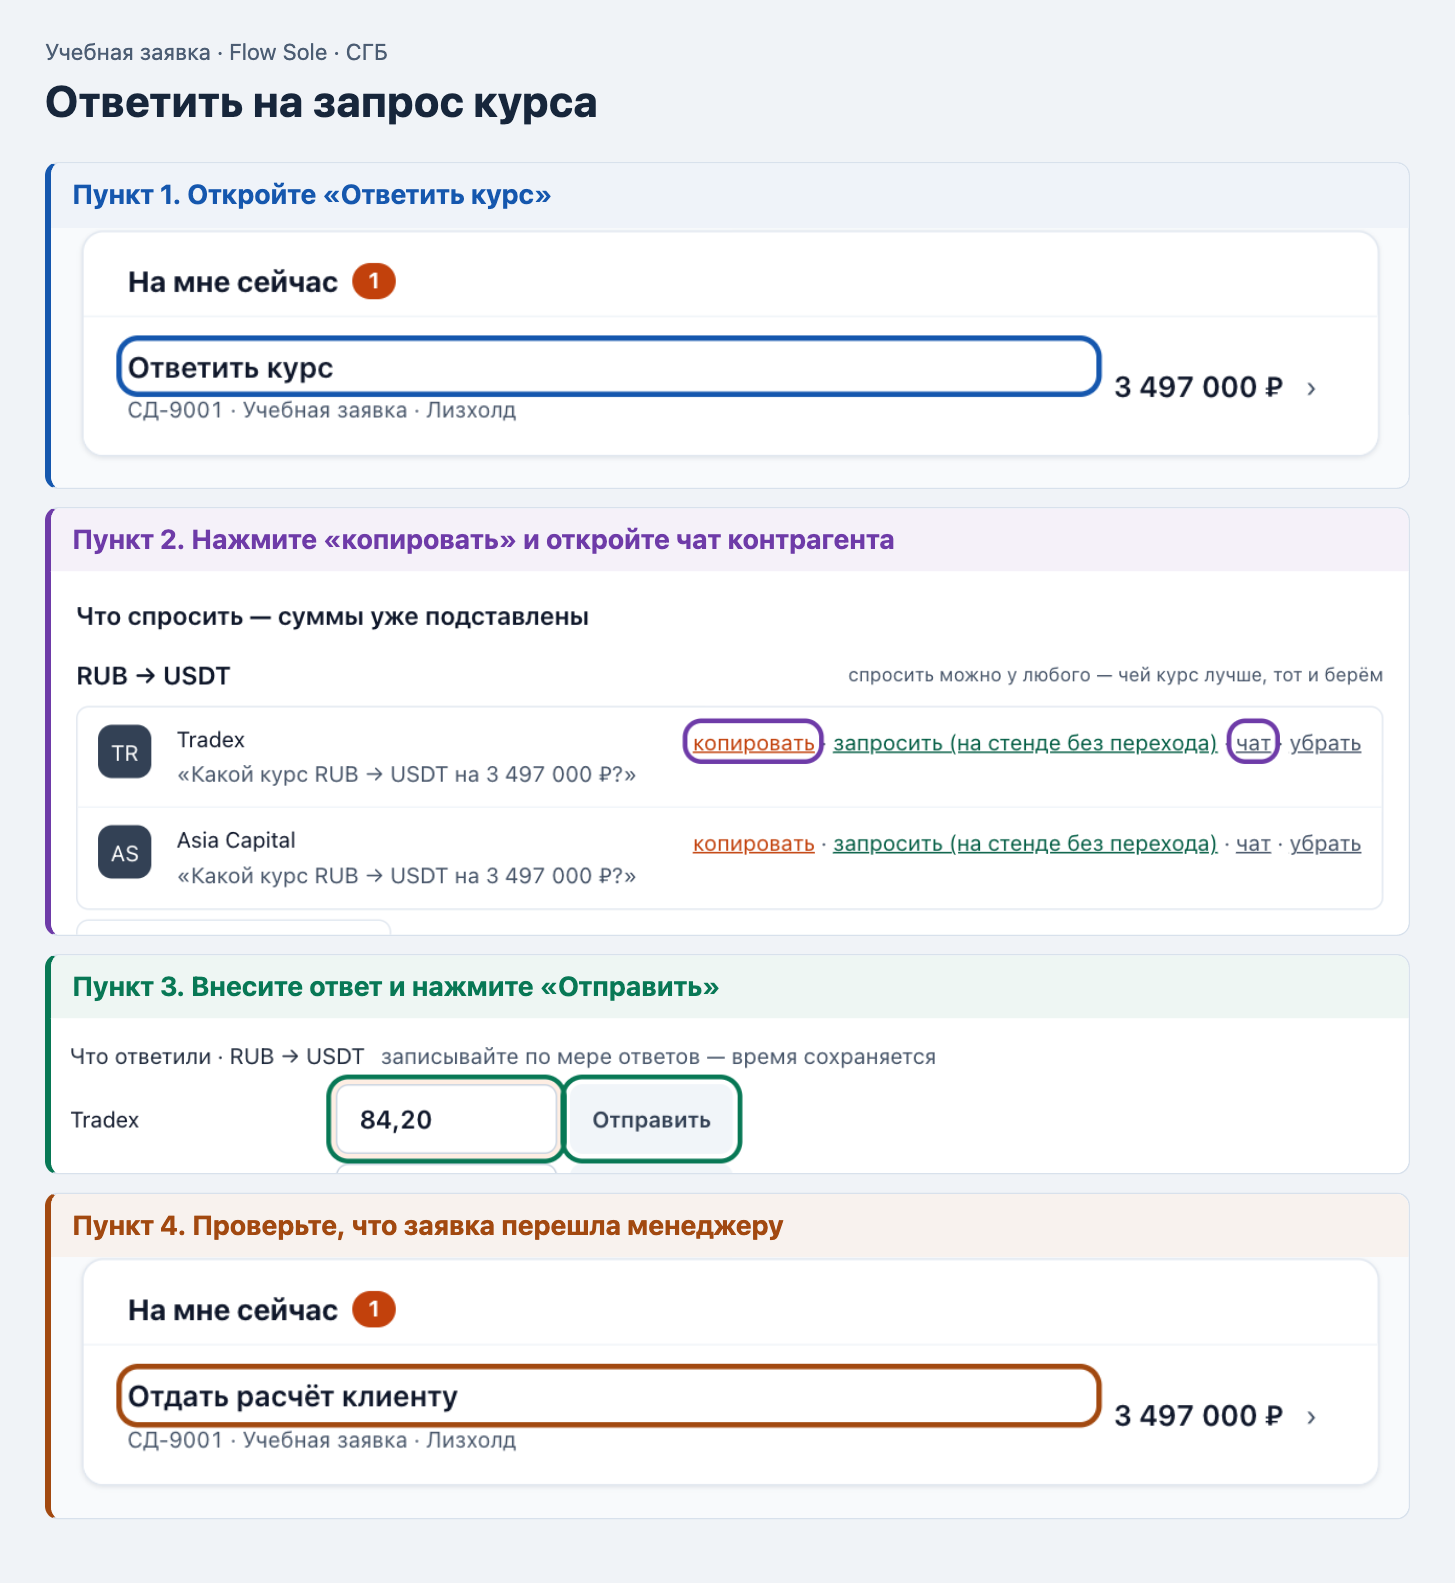
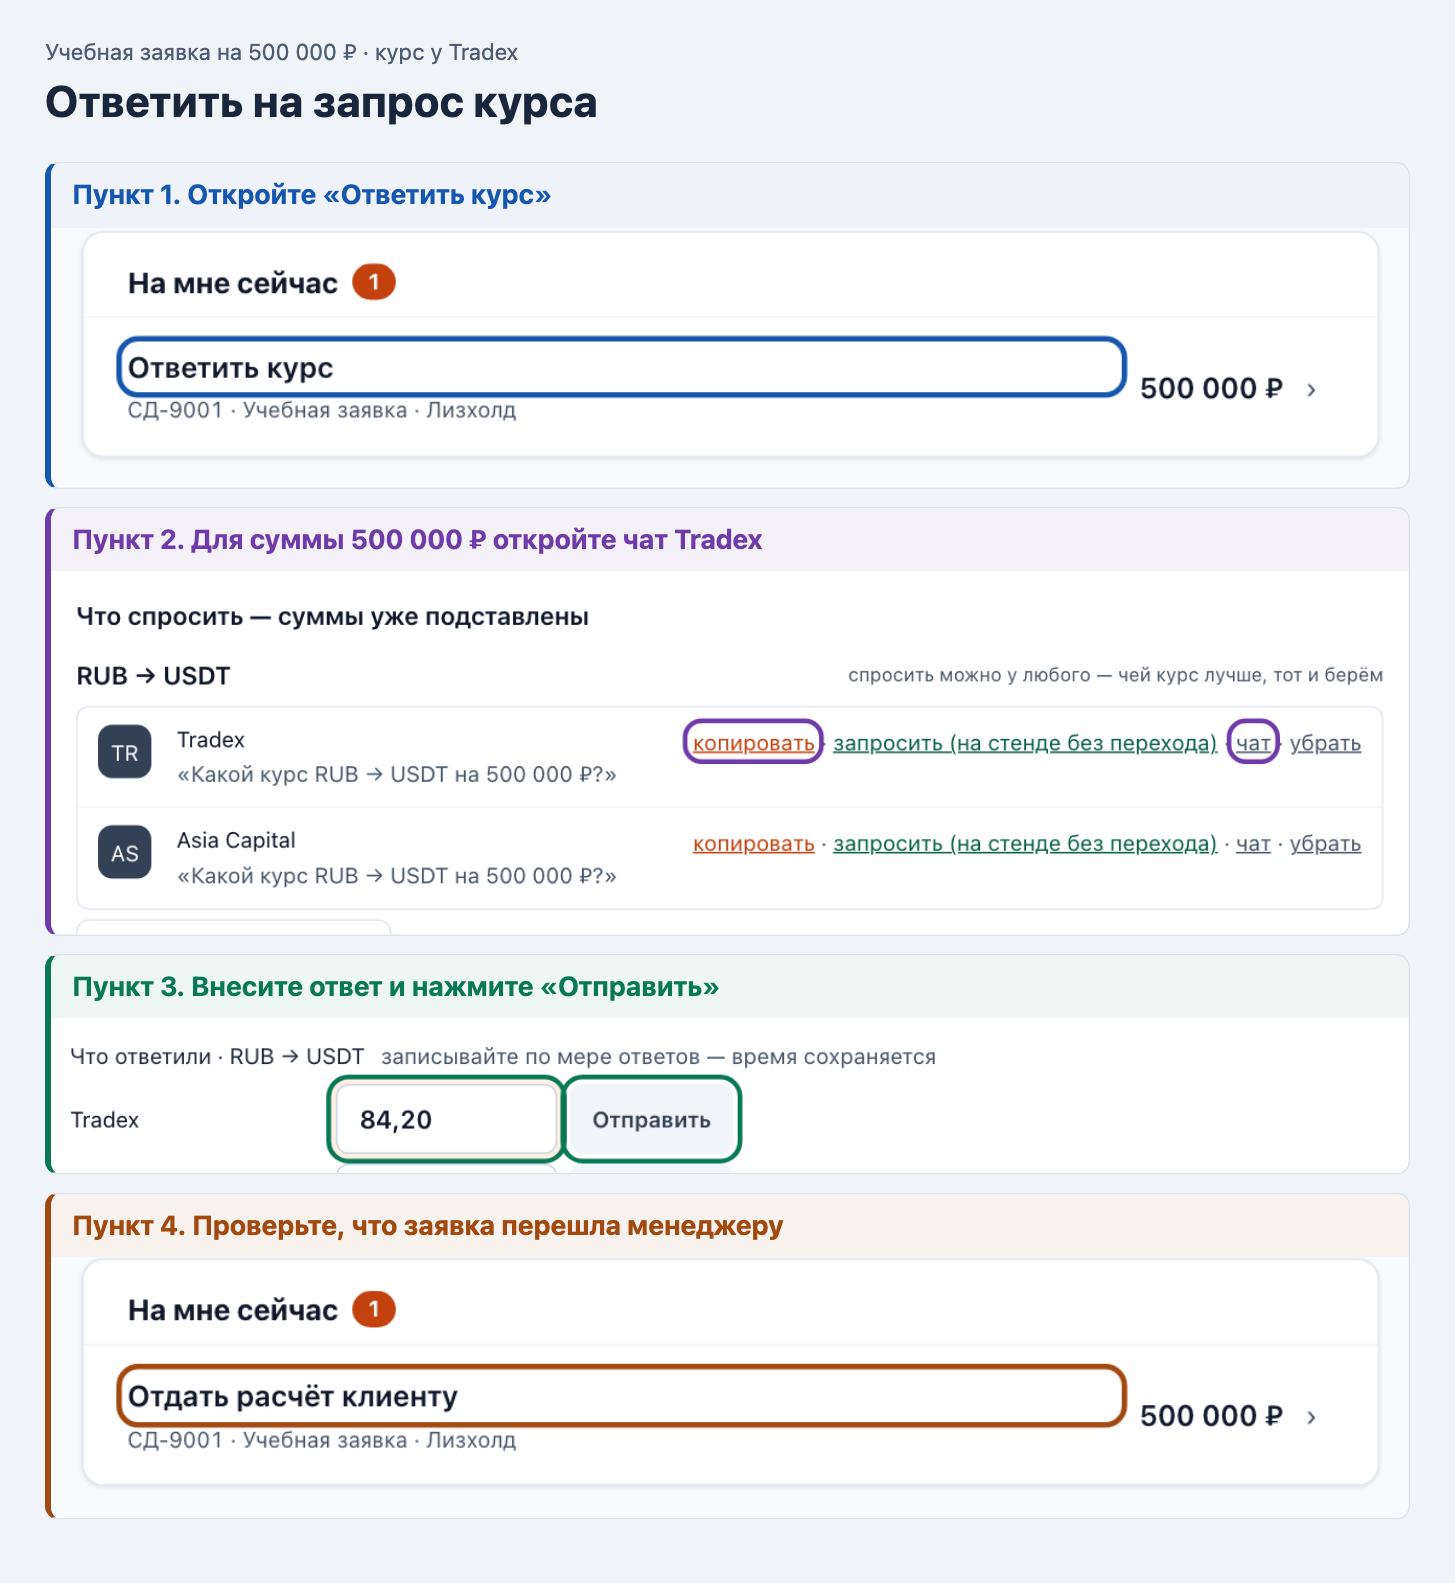
Route rate requests by ruble amount

diff --git a/docs/operator-guide/index.html b/docs/operator-guide/index.html
@@ -29,8 +29,6 @@
     figure { margin: .75rem 0; }
     figure img { display: block; max-width: 100%; height: auto; border: 1px solid #dce3ea; border-radius: .65rem; }
     .figure-link span { display: inline-block; margin-top: .35rem; }
-    .chat-list { margin: .75rem 0 0; padding-left: 1.25rem; overflow-wrap: anywhere; }
-    .chat-list li + li { margin-top: .25rem; }
     .scenarios { border-block-start: 1px solid #dce3ea; }
     .scenarios details { padding: .75rem 0; border-block-end: 1px solid #dce3ea; }
     .scenarios summary { font-weight: 650; cursor: pointer; }
@@ -120,9 +118,14 @@
     <section id="rate" aria-labelledby="rate-title">
       <h2 id="rate-title">1. Ответить на запрос курса</h2>
       <p>Когда клиентский менеджер запрашивает курс, в <a href="/tasks">Задачнике</a> появляется задача <strong>«Ответить курс»</strong>. На экранах показана учебная заявка.</p>
+      <h3>Где запросить курс RUB → USDT</h3>
+      <dl class="field-guide">
+        <div><dt>До 500 000 ₽ включительно</dt><dd>Запросите курс у <a href="https://t.me/c/3984596268/3025">Tradex</a>.</dd></div>
+        <div><dt>Свыше 500 000 ₽</dt><dd>Запросите курс в чате <a href="tg://openmessage?chat_id=5095212604">«Крипта - Платежи»</a>.</dd></div>
+      </dl>
       <figure>
         <a class="figure-link" href="operator-screens/01-rate-overview.png">
-          <img src="operator-screens/01-rate-overview.png" alt="Четыре пункта запроса курса. Открыть заявку, скопировать готовый вопрос, внести ответ и проверить передачу менеджеру." loading="lazy">
+          <img src="operator-screens/01-rate-overview.png" alt="Учебный запрос курса на 500 000 ₽ в Tradex. Открыть заявку, скопировать вопрос, внести ответ и проверить передачу менеджеру." loading="lazy">
           <span>Открыть экран крупнее</span>
         </a>
       </figure>
@@ -130,14 +133,10 @@
         <li><strong>Откройте заявку</strong> В списке задач нажмите на карточку <strong>«Ответить курс»</strong>.</li>
         <li><strong>Скопируйте и отправьте вопрос</strong>
           <dl class="field-guide">
-            <div><dt>Что спросить</dt><dd>Выберите нужное направление. Нажмите <strong>«копировать»</strong> в строке контрагента. Сумма уже есть в тексте.</dd></div>
-            <div><dt>Чат</dt><dd>В той же строке нажмите <strong>«чат»</strong>, чтобы посмотреть сохранённый адрес. Откройте группу, вставьте вопрос и отправьте его. На стенде кнопка <strong>«запросить (на стенде без перехода)»</strong> тоже копирует вопрос. Если видите <strong>«привязать чат»</strong>, используйте список ниже или уточните адрес группы.</dd></div>
+            <div><dt>Что спросить</dt><dd>Для RUB → USDT определите контрагента по сумме в запросе. Нажмите <strong>«копировать»</strong> в его строке. Сумма уже есть в тексте.</dd></div>
+            <div><dt>Чат</dt><dd>В той же строке нажмите <strong>«чат»</strong>, чтобы посмотреть сохранённый адрес. Откройте группу, вставьте вопрос и отправьте его. На стенде кнопка <strong>«запросить (на стенде без перехода)»</strong> тоже копирует вопрос. Если видите <strong>«привязать чат»</strong>, откройте группу по ссылке в инструкции.</dd></div>
           </dl>
-          <strong>Рабочие чаты для запроса курса</strong>
-          <ul class="chat-list">
-            <li><strong>RUB → USDT</strong> · <a href="https://t.me/c/3984596268/3025">Grusha (MF)| Tradex</a>, <a href="https://t.me/c/3969064520/2874">Asia Capital x Grusha (rub-usdt) | АК-1001</a>, <a href="tg://openmessage?chat_id=5095212604">Крипта - Платежи</a> (Екатерина).</li>
-            <li data-for-payout="thb"><strong>USDT → THB</strong> · <a href="tg://openmessage?chat_id=5187853852">Coins TH | mfcorpthai@gmail.com</a>, <a href="tg://openmessage?chat_id=5475769383">Bitazza OTC x MF Corporation Company Limited</a>.</li>
-          </ul>
+          <p data-for-payout="thb"><strong>USDT → THB</strong> · <a href="tg://openmessage?chat_id=5187853852">Coins TH | mfcorpthai@gmail.com</a>, <a href="tg://openmessage?chat_id=5475769383">Bitazza OTC x MF Corporation Company Limited</a>.</p>
         </li>
         <li><strong>Внесите курс</strong>
           <dl class="field-guide">
